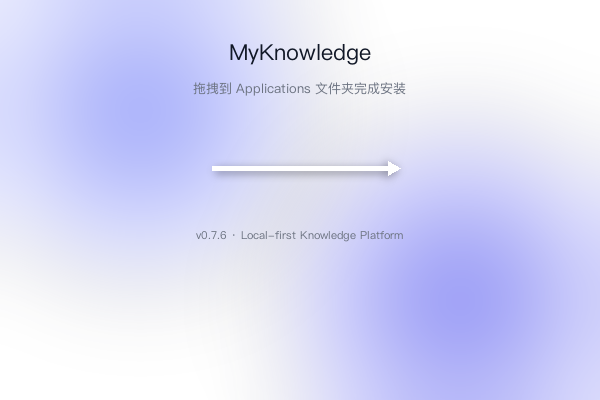
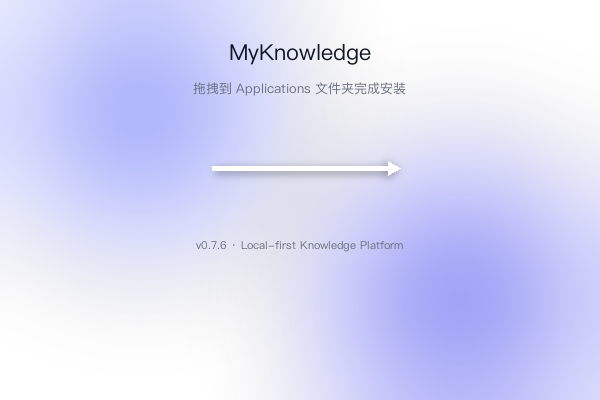
chore(desktop): 固化 ELECTRON_MIRROR 国内镜像 + slogan 位置下调
1. build-desktop.sh: 默认 ELECTRON_MIRROR=https://npmmirror.com/mirrors/electron/
   （此前只固化了 ELECTRON_BUILDER_BINARIES_MIRROR，导致每次 npx 打包都要手动 export）
2. DMG 背景 slogan: y=235 → y=245

Changed region(s): [[0.33, 0.57, 0.66, 0.63]]

diff --git a/scripts/make-dmg-background.py b/scripts/make-dmg-background.py
@@ -93,10 +93,10 @@ def render(scale: int) -> Image.Image:
     f_sub = _font(13 * S)
     d.text((W / 2, 88 * S), "拖拽到 Applications 文件夹完成安装", font=f_sub,
            fill=(0x6B, 0x72, 0x80), anchor="mm")
-    # 版本号/slogan：移到图标行下方（y=170+65=235）—— DMG Finder 窗口实际尺寸
+    # 版本号/slogan：移到图标行下方（y=245）—— DMG Finder 窗口实际尺寸
     # 不固定，贴底会被截；放在图标下方既安全又符合"图标-标签"的 Finder 习惯。
     f_tag = _font(11 * S)
-    d.text((W / 2, 235 * S), "v0.7.6 · Local-first Knowledge Platform", font=f_tag,
+    d.text((W / 2, 245 * S), "v0.7.6 · Local-first Knowledge Platform", font=f_tag,
            fill=(0x6B, 0x72, 0x80), anchor="mm")
 
     return img
